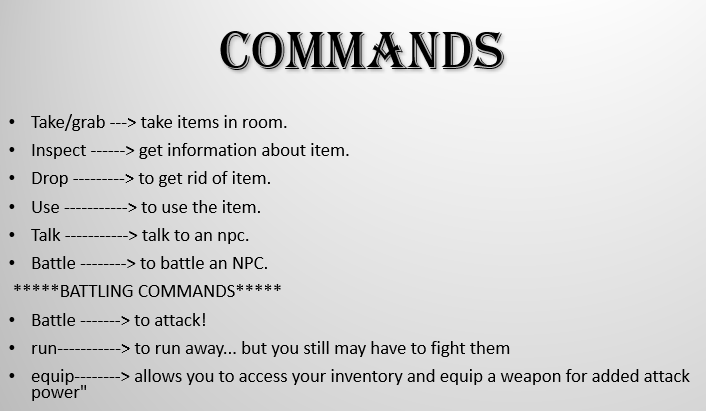
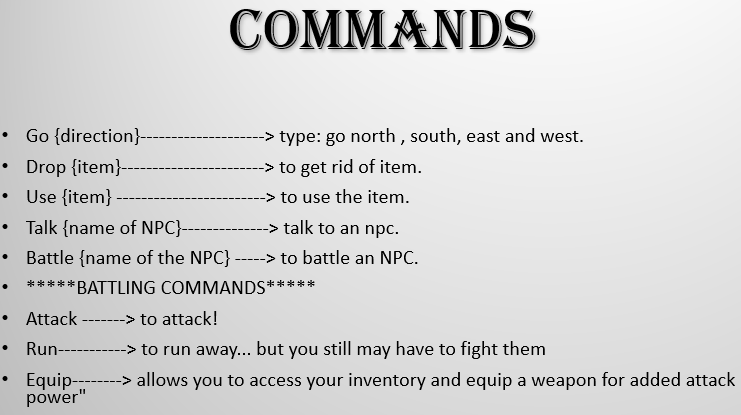
fixing the commmands image

Changed region(s): [[0.0, 0.2628, 0.779, 0.7299], [0.0, 0.7591, 0.9972, 0.9927], [0.3116, 0.0, 0.7479, 0.1752]]

diff --git a/src/main/java/com/maledictus/WelcomePage.java b/src/main/java/com/maledictus/WelcomePage.java
@@ -130,7 +130,7 @@ public class WelcomePage extends JFrame {
 
         JFrame f3 = new JFrame();
         JPanel panel = new JPanel();
-        panel.setBounds(0, 0, 700, 500);
+        panel.setBounds(0, 0, 750, 500);
         JButton close2 = new JButton("Close");
         panel.add(close2);
 

diff --git a/src/main/java/com/maledictus/Game.java b/src/main/java/com/maledictus/Game.java
@@ -202,7 +202,7 @@ public class Game {
         }
             BattleMusic.stopMusic();
             GameMusic.playMusic();
-        npcMap.remove(battleEnemy);
+            npcMap.remove(battleEnemy);
 
         try {
             this.start();

diff --git a/src/main/java/com/maledictus/music/BattleMusic.java b/src/main/java/com/maledictus/music/BattleMusic.java
@@ -31,6 +31,7 @@ import java.io.InputStream;
     }
 
     public static void stopMusic() {
-        audioClip.stop();
+         audioClip.stop();
+
     }
 }
